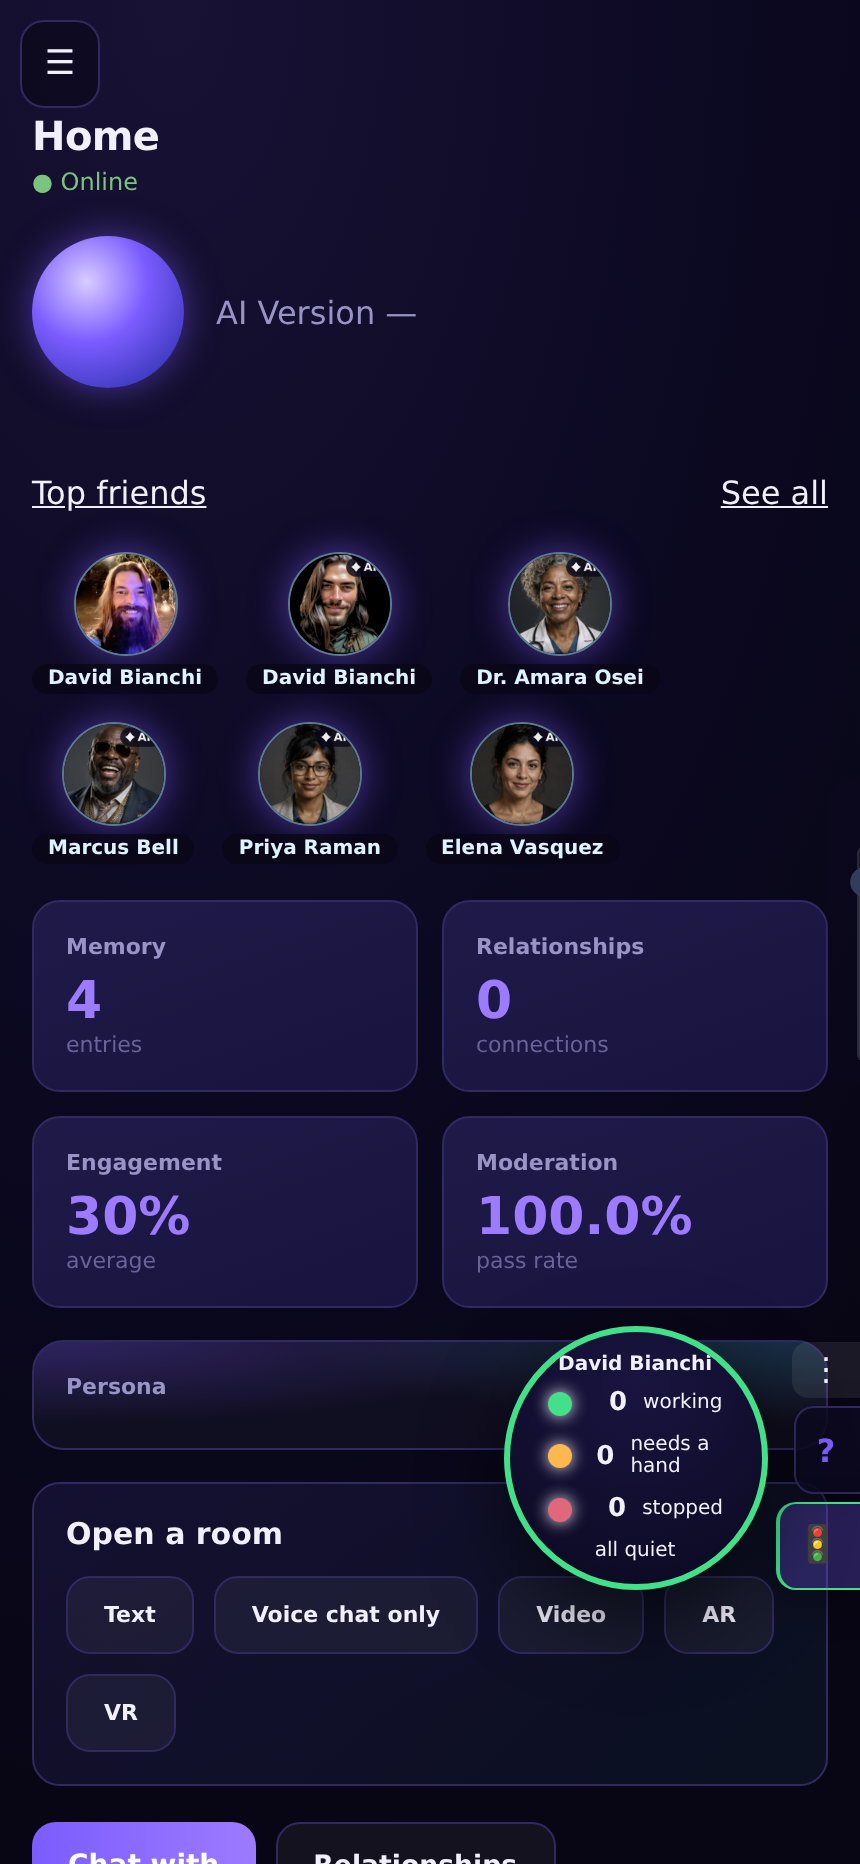
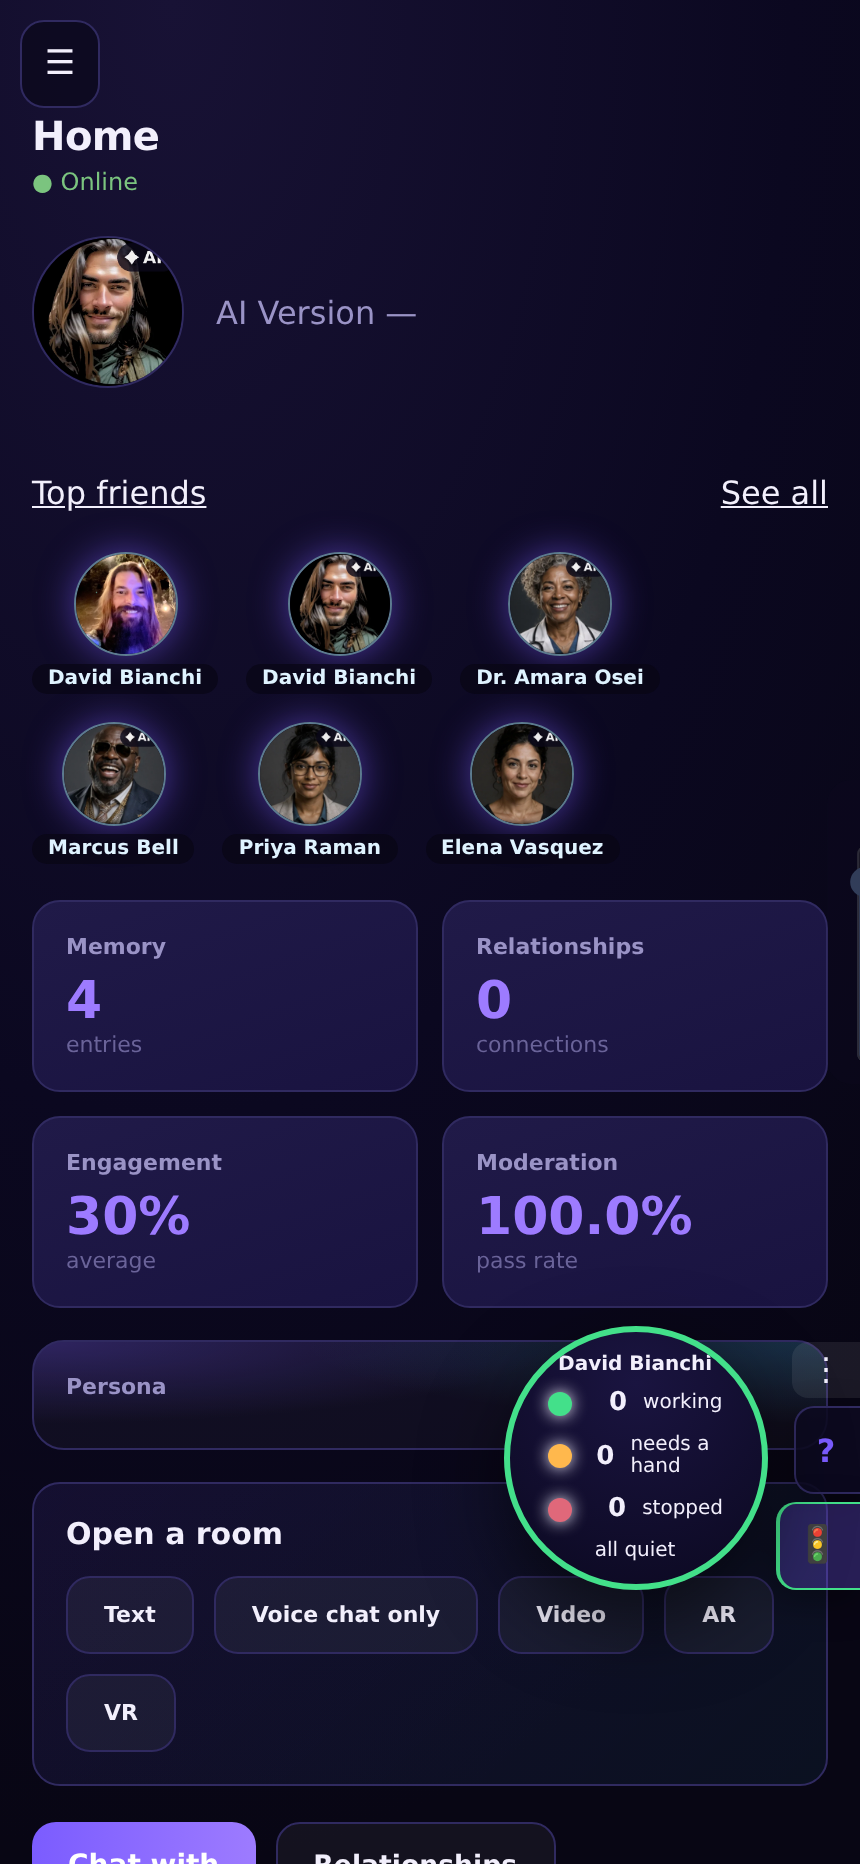
The burned download is a door every audit can see, and its refusals speak ten languages — the players' download links are templates the console audit reads, the shells record the route until they carry the film players, and the badge's four refusals are constants with translations; the rooms are pho
Claude-Session: https://claude.ai/code/session_012RuEkwtajFcHEhMxUNPWMN

Changed region(s): [[0.0, 0.0933, 0.2419, 0.2178]]

diff --git a/app/src/SeatFilm.tsx b/app/src/SeatFilm.tsx
@@ -108,7 +108,7 @@ export function SeatFilm({ profileId, display, talking, lang, onFull,
         <span className="rs-film-ai">{tr("ins.film.ai", lang)}</span>
         {mediaIdOf(row.video_url as string) && (
           <a className="rs-film-down" download
-             href={getBase() + "/media/" + mediaIdOf(row.video_url as string) + "/download"}
+             href={getBase() + `/media/${mediaIdOf(row.video_url as string)}/download`}
              aria-label={tr("ins.film.download", lang)}
              title={tr("ins.film.download", lang)}
              onClick={(e) => e.stopPropagation()}>⤓</a>

diff --git a/app/src/SceneFilm.tsx b/app/src/SceneFilm.tsx
@@ -67,7 +67,7 @@ export function SceneFilm({ scene, lang }: { scene: SceneRender; lang: Lang }) {
         <span className="bubble-scene-ai">{tr("chat.scene.ai", lang)}</span>
         {mediaIdOf(row.video_url) && (
           <a className="rs-film-down" download
-             href={getBase() + "/media/" + mediaIdOf(row.video_url) + "/download"}
+             href={getBase() + `/media/${mediaIdOf(row.video_url)}/download`}
              aria-label={tr("ins.film.download", lang)}
              title={tr("ins.film.download", lang)}>⤓</a>
         )}

diff --git a/qrme/i18n.py b/qrme/i18n.py
@@ -1335,6 +1335,10 @@ PAIRED_DEVICES_LIMIT = "{max} paired devices is the limit — unpair one"
 SENSES_NOTHING_FOR_A_GUARDIAN = ("this device senses nothing a guardian could watch")
 GUARDIAN_ADDRESS_IS_A_URL = ("the guardian address is a web address — it starts with http or https")
 NO_SUCH_DEVICE_PAIR_FIRST = "no such device — pair it first"
+NO_SUCH_MEDIA = "no such media"
+NOT_SYNTHETIC_NOTHING_BURNED = ("this file is not synthetic media; nothing is burned into an authentic upload")
+NO_FFMPEG_BADGE_REFUSED = ("this deployment has no ffmpeg, so the badge cannot be burned into footage — the download is refused rather than served unmarked")
+BADGE_ONLY_PICTURES_AND_FOOTAGE = "only pictures and footage carry a burned badge"
 DEVICE_ADVERTISED_NO_NAME = ("the device did not advertise a name — connect again")
 BATTERY_READING_RANGE = "a battery reading is 0-100"
 SCREENS_LIMIT = "{max} screens is the limit — take one down first"
@@ -3192,6 +3196,50 @@ _PUBLIC.update(_PRIVILEGE_SENTENCES)
 
 
 _REFUSALS: dict[str, dict[str, str]] = {
+    'no such media': {
+        'es': 'no existe ese archivo',
+        'fr': 'aucun média de ce nom',
+        'de': 'kein solches Medium',
+        'pt': 'não existe esse ficheiro',
+        'it': 'nessun media con quel nome',
+        'ja': 'そのメディアは存在しません',
+        'zh': '没有这个媒体文件',
+        'hi': 'ऐसा कोई मीडिया नहीं',
+        'ar': 'لا يوجد وسيط بهذا الاسم',
+    },
+    'this file is not synthetic media; nothing is burned into an authentic upload': {
+        'es': 'este archivo no es contenido sintético; nada se graba en una subida auténtica',
+        'fr': "ce fichier n'est pas un média synthétique ; rien n'est incrusté dans un envoi authentique",
+        'de': 'diese Datei ist kein synthetisches Medium; in einen echten Upload wird nichts eingebrannt',
+        'pt': 'este ficheiro não é conteúdo sintético; nada é gravado num carregamento autêntico',
+        'it': 'questo file non è un media sintetico; nulla viene impresso su un caricamento autentico',
+        'ja': 'このファイルは合成メディアではありません。本物のアップロードには何も焼き込みません',
+        'zh': '此文件不是合成媒体；不会在真实上传中烧录任何内容',
+        'hi': 'यह फ़ाइल कृत्रिम मीडिया नहीं है; असली अपलोड में कुछ भी अंकित नहीं किया जाता',
+        'ar': 'هذا الملف ليس وسيطًا اصطناعيًا؛ لا يُحفر شيء على تحميل أصلي',
+    },
+    'this deployment has no ffmpeg, so the badge cannot be burned into footage — the download is refused rather than served unmarked': {
+        'es': 'esta instalación no tiene ffmpeg, así que la insignia no puede grabarse en el vídeo — la descarga se rechaza en lugar de servirse sin marca',
+        'fr': "ce déploiement n'a pas ffmpeg, le badge ne peut donc pas être incrusté dans la vidéo — le téléchargement est refusé plutôt que servi sans marque",
+        'de': 'diese Installation hat kein ffmpeg, das Abzeichen kann also nicht ins Video eingebrannt werden — der Download wird verweigert statt unmarkiert geliefert',
+        'pt': 'esta instalação não tem ffmpeg, por isso o selo não pode ser gravado no vídeo — a transferência é recusada em vez de servida sem marca',
+        'it': 'questa installazione non ha ffmpeg, quindi il badge non può essere impresso nel video — il download è rifiutato invece di essere servito senza marchio',
+        'ja': 'この環境には ffmpeg がないため、映像にバッジを焼き込めません。無印のまま渡すのではなく、ダウンロードを拒否します',
+        'zh': '此部署没有 ffmpeg，无法将标识烧录进视频——下载被拒绝，而不是提供无标识的文件',
+        'hi': 'इस तैनाती में ffmpeg नहीं है, इसलिए फ़ुटेज में बैज अंकित नहीं हो सकता — बिना निशान के देने के बजाय डाउनलोड अस्वीकार किया जाता है',
+        'ar': 'لا يتوفر ffmpeg في هذا النشر، فلا يمكن حفر الشارة في المقطع — يُرفض التنزيل بدل تقديمه دون علامة',
+    },
+    'only pictures and footage carry a burned badge': {
+        'es': 'solo las imágenes y los vídeos llevan una insignia grabada',
+        'fr': 'seuls les images et les vidéos portent un badge incrusté',
+        'de': 'nur Bilder und Videos tragen ein eingebranntes Abzeichen',
+        'pt': 'só imagens e vídeos levam um selo gravado',
+        'it': 'solo immagini e video portano un badge impresso',
+        'ja': '焼き込みバッジを持つのは画像と映像だけです',
+        'zh': '只有图片和视频带有烧录标识',
+        'hi': 'केवल चित्रों और फ़ुटेज पर ही अंकित बैज होता है',
+        'ar': 'الصور والمقاطع فقط تحمل شارة محفورة',
+    },
     "that inbound token does not open this profile's mailbox": {
         'es': 'ese token de entrada no abre el buzón de este perfil',
         'fr': "ce jeton entrant n'ouvre pas la boîte aux lettres de ce profil",

diff --git a/qrme/badge.py b/qrme/badge.py
@@ -31,7 +31,7 @@ import shutil
 import subprocess
 from pathlib import Path
 
-from . import db, media
+from . import db, i18n, media
 
 TEXT = "AI-GENERATED"
 #: Where the badge sits, in pixels from the top-left corner.
@@ -74,10 +74,9 @@ def _row(media_id: str):
         "SELECT id, kind, filename, ai_marked FROM media WHERE id=?",
         (media_id,)).fetchone()
     if row is None:
-        raise NoBadge(f"no such media: {media_id}")
+        raise NoBadge(i18n.NO_SUCH_MEDIA)
     if not row["ai_marked"]:
-        raise NoBadge("this file is not synthetic media; nothing is burned "
-                      "into an authentic upload")
+        raise NoBadge(i18n.NOT_SYNTHETIC_NOTHING_BURNED)
     return row
 
 
@@ -86,7 +85,7 @@ def burned(media_id: str) -> Path:
     row = _row(media_id)
     source = media.media_dir() / row["filename"]
     if not source.exists():
-        raise NoBadge(f"the file behind {media_id} is gone")
+        raise NoBadge(i18n.NO_SUCH_MEDIA)
     target = source.with_name(source.stem + ".badged" + source.suffix)
     if target.exists() and target.stat().st_mtime >= source.stat().st_mtime:
         return target
@@ -95,7 +94,7 @@ def burned(media_id: str) -> Path:
     elif row["kind"] == "video":
         _burn_video(source, target)
     else:
-        raise NoBurner("only pictures and footage carry a burned badge")
+        raise NoBurner(i18n.BADGE_ONLY_PICTURES_AND_FOOTAGE)
     return target
 
 
@@ -113,9 +112,7 @@ def _burn_image(source: Path, target: Path) -> None:
 def _burn_video(source: Path, target: Path) -> None:
     ffmpeg = shutil.which("ffmpeg")
     if not ffmpeg:
-        raise NoBurner("this deployment has no ffmpeg, so the badge cannot "
-                       "be burned into footage — the download is refused "
-                       "rather than served unmarked")
+        raise NoBurner(i18n.NO_FFMPEG_BADGE_REFUSED)
     badge = source.with_name(source.stem + ".badge.png")
     badge.write_bytes(_badge_png(720))
     cmd = [ffmpeg, "-y", "-loglevel", "error", "-i", str(source),
@@ -125,5 +122,7 @@ def _burn_video(source: Path, target: Path) -> None:
            "-c:a", "copy", "-movflags", "+faststart", str(target)]
     done = subprocess.run(cmd, capture_output=True, text=True, timeout=600)
     if done.returncode != 0 or not target.exists():
-        raise NoBurner("ffmpeg could not burn the badge: "
-                       + done.stderr.strip()[-300:])
+        import sys
+        print("badge: ffmpeg could not burn:", done.stderr.strip()[-300:],
+              file=sys.stderr)
+        raise NoBurner(i18n.NO_FFMPEG_BADGE_REFUSED)

diff --git a/tools/shoot_screens.py b/tools/shoot_screens.py
@@ -131,6 +131,17 @@ def seed(db_path: str) -> dict:
     # homepage is a real starter's, not a stand-in made here.
     from qrme import seed as collection
     collection.seed()
+    # The camera's own profile wears the founder's rendered portrait, so a
+    # seat in a room shows a face rather than initials — "this one didn't
+    # have my profile photo". The same file the seed gives the founder's
+    # AI profile; the camera's profile is a stand-in for that one.
+    founder = conn.execute(
+        "SELECT p.avatar FROM profiles p JOIN handles h ON h.profile_id = p.id"
+        " WHERE h.handle = 'david_bianchi_ai'").fetchone()
+    if founder and founder["avatar"]:
+        conn.execute("UPDATE profiles SET avatar=? WHERE id=?",
+                     (founder["avatar"], profile_id))
+        conn.commit()
 
     return {"accountId": account,
             "accountToken": auth.issue("account", account),

diff --git a/qrme/routers/avatars.py b/qrme/routers/avatars.py
@@ -774,9 +774,9 @@ def download_marked(media_id: str):
     try:
         path = badge.burned(media_id)
     except badge.NoBadge as exc:
-        raise HTTPException(404, str(exc)) from None
+        raise HTTPException(404, i18n.raised(exc)) from None
     except badge.NoBurner as exc:
-        raise HTTPException(503, str(exc)) from None
+        raise HTTPException(503, i18n.raised(exc)) from None
     return FileResponse(str(path), filename=path.name,
                         headers={"content-disposition":
                                  f'attachment; filename="{path.name}"'})

diff --git a/tests/test_the_badge_is_the_outermost_layer.py b/tests/test_the_badge_is_the_outermost_layer.py
@@ -55,7 +55,7 @@ def test_the_takeover_carries_the_badge_above_the_player():
 
 def test_every_player_offers_the_burned_download():
     for src in _players():
-        assert '/download"' in src and "rs-film-down" in src, (
+        assert "/download`" in src and "rs-film-down" in src, (
             "a film player offers no download — or offers the unburned file")
 
 
